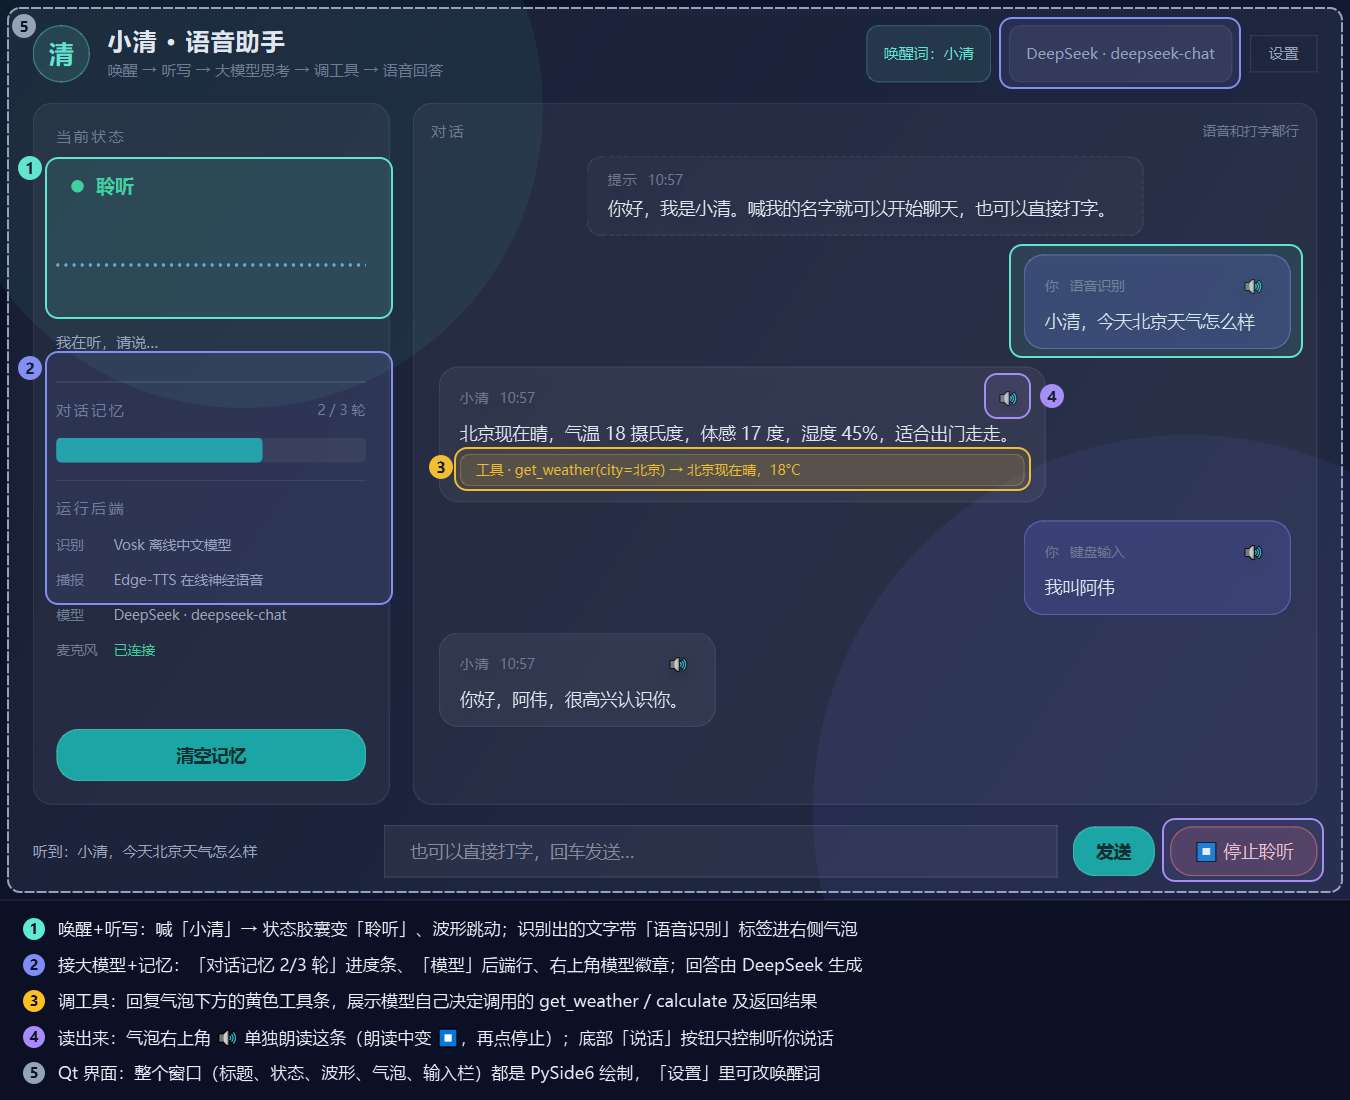
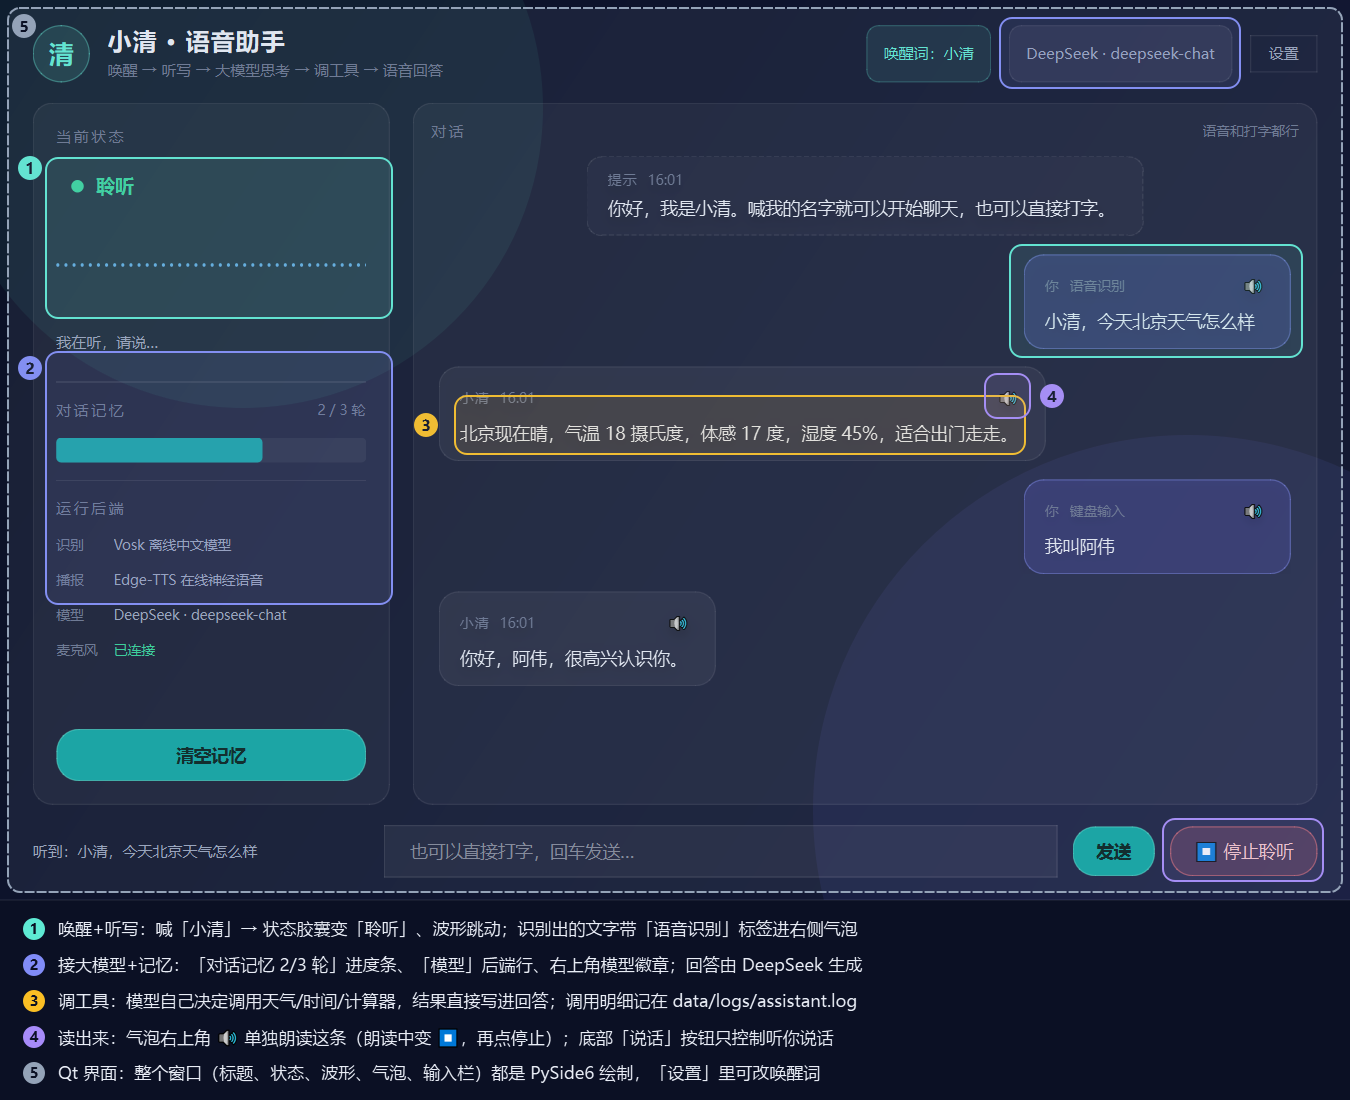
fix: 去掉回复气泡下的黄色工具条
- 气泡只显示回答正文，不再渲染 tool 调用标签
- 工具调用明细保留在 data/logs/assistant.log
- 同步更新界面截图、标注图与文档说明

diff --git a/assistant/ui/widgets.py b/assistant/ui/widgets.py
@@ -148,7 +148,6 @@ class ChatBubble(QFrame):
         self,
         role: str,
         text: str,
-        trace: list[dict] | None = None,
         meta: str = "",
         on_speak: Callable[[ChatBubble], None] | None = None,
         parent=None,
@@ -196,20 +195,6 @@ class ChatBubble(QFrame):
         body.setTextInteractionFlags(Qt.TextSelectableByMouse)
         body.setStyleSheet(f"color: {COLORS['text']}; background: transparent;")
         outer.addWidget(body)
-
-        if trace:
-            for item in trace:
-                chip_text = item.get("summary") or item.get("name", "工具调用")
-                chip = QLabel(f"工具 · {chip_text}")
-                chip.setWordWrap(True)
-                chip.setFixedWidth(body_width)
-                chip.setStyleSheet(
-                    "background-color: rgba(251, 191, 36, 0.10);"
-                    "border: 1px solid rgba(251, 191, 36, 0.28);"
-                    "border-radius: 8px; padding: 5px 9px;"
-                    f"color: {COLORS['warn']}; font-size: 11px;"
-                )
-                outer.addWidget(chip)
 
         if is_system:
             self.setStyleSheet(
@@ -296,8 +281,8 @@ class ChatView(QScrollArea):
         self.setWidget(self._container)
 
     # ---------- 对外 ----------
-    def add_message(self, role: str, text: str, trace: list[dict] | None = None, meta: str = "") -> ChatBubble:
-        bubble = ChatBubble(role, text, trace, meta or time.strftime("%H:%M"), on_speak=self._on_speak)
+    def add_message(self, role: str, text: str, meta: str = "") -> ChatBubble:
+        bubble = ChatBubble(role, text, meta or time.strftime("%H:%M"), on_speak=self._on_speak)
         row = QWidget()
         row.setAttribute(Qt.WA_TranslucentBackground)
         layout = QHBoxLayout(row)

diff --git a/tools/annotate_ui.py b/tools/annotate_ui.py
@@ -36,8 +36,8 @@ ITEMS = [
     (
         "3",
         "#fbbf24",
-        [QRectF(455, 448, 575, 42)],
-        "调工具：回复气泡下方的黄色工具条，展示模型自己决定调用的 get_weather / calculate 及返回结果",
+        [QRectF(455, 396, 570, 58)],
+        "调工具：模型自己决定调用天气/时间/计算器，结果直接写进回答；调用明细记在 data/logs/assistant.log",
     ),
     (
         "4",
@@ -89,7 +89,7 @@ def main() -> int:
         badges = {
             "1": QPointF(30, 168),
             "2": QPointF(30, 368),
-            "3": QPointF(441, 467),
+            "3": QPointF(426, 425),
             "4": QPointF(1052, 396),
             "5": QPointF(24, 26),
         }

diff --git a/assistant/ui/main_window.py b/assistant/ui/main_window.py
@@ -332,8 +332,9 @@ class MainWindow(QMainWindow):
         self._chat.add_message("user", text, meta=meta)
 
     def _on_replied(self, text: str, trace: list) -> None:
+        # 工具调用明细只写日志，不在气泡下面展示，保持对话干净
         self._hide_typing()
-        self._chat.add_message("assistant", text, trace=list(trace or []))
+        self._chat.add_message("assistant", text)
 
     def _on_notice(self, level: str, text: str) -> None:
         color = {

diff --git a/tools/preview_ui.py b/tools/preview_ui.py
@@ -47,7 +47,6 @@ def main() -> int:
     window._chat.add_message(
         "assistant",
         "北京现在晴，气温 18 摄氏度，体感 17 度，湿度 45%，适合出门走走。",
-        trace=[{"name": "get_weather", "summary": "get_weather(city=北京) → 北京现在晴，18°C"}],
     )
     window._chat.add_message("user", "我叫阿伟", meta="键盘输入")
     window._chat.add_message("assistant", "你好，阿伟，很高兴认识你。")

diff --git a/README.md b/README.md
@@ -12,7 +12,7 @@
 
 ![界面预览](docs/images/ui-preview.png)
 
-> 上图是最新界面：左侧状态/波形/后端信息，右侧对话气泡，工具调用会单独标出来。
+> 上图是最新界面：左侧状态/波形/后端信息，右侧对话气泡；工具调用明细写日志，不在气泡里占地方。
 
 ![五件事对应的界面位置](docs/images/ui-guide.png)
 
@@ -96,7 +96,7 @@ C:\Users\12966\AppData\Local\Programs\Python\Python311\python.exe app.py
 
 1. 等左下角提示「准备就绪：喊一声「小清」试试」；
 2. 对着麦克风说：**"小清"** → 它先应一声（"我在呢"/"哎，我在"…随机）→ 状态变「聆听」→ 再说 **"今天北京天气怎么样"**；
-3. 助手进入「思考」，调 `get_weather`，然后「说话」朗读答案，气泡里同时显示文字和工具轨迹；
+3. 助手进入「思考」，调 `get_weather`，然后「说话」朗读答案；回答里直接带出查询结果（调用明细在日志里）；
 4. 也可以一句话说完：**"小清，今天北京天气怎么样"**；
 5. 不想喊名字：点右下角 **「🎤 说话」** 开始听，再点 **「⏹ 停止聆听」** 结束——
    说完会立刻识别；**如果一直没出声，会自动回到「待唤醒」并提示"没听到声音"**，不会卡在聆听；

diff --git a/docs/architecture.md b/docs/architecture.md
@@ -65,7 +65,7 @@ sequenceDiagram
     L-->>G: "北京现在晴，气温18度…"
     G->>G: memory.add(user, assistant)
     G-->>W: TurnResult(text, trace)
-    W-->>UI: replied 信号 → 气泡 + 工具标签
+    W-->>UI: replied 信号 → 气泡（工具结果已并入回答，明细只写日志）
     Note over W: 状态切到「说话」
     W->>S: speak(text)
     S-->>W: 播放完毕
@@ -143,5 +143,5 @@ return llm.complete(messages, tools=None).content
 | 功能全跑通 | 语音/打字两条入口都走同一套 Agent；工具、记忆、朗读、界面全链路 |
 | 代码结构清晰 | core 分层 + 接口抽象 + 工厂降级 + 分层自检脚本 |
 | 本地模型加分 | Vosk 本地识别（离线）、可选 Ollama 本地大模型 |
-| 创新点 | 唤醒词/别名/阈值均可改；一句话唤醒+指令；工具轨迹可视化；三条降级链 |
+| 创新点 | 唤醒词/别名/阈值均可改；一句话唤醒+指令；唤醒应答可配置；工具调用明细入库日志 |
 | 体验自然 | 深色界面、实时波形、状态胶囊、思考占位、朗读防回声、Edge 神经语音 |

diff --git a/docs/demo.md b/docs/demo.md
@@ -34,11 +34,11 @@ run.bat
 
 ## 3. 工具调用（50 秒）
 
-- 说/打：**"帮我算一下 128 乘以 7"** → 气泡下方出现黄色工具标签 `工具 · calculate(...) → 896`
+- 说/打：**"帮我算一下 128 乘以 7"** → 回答里直接给 896（不再在气泡下面堆工具标签；调用明细写在日志里）
 - 说：**"现在几点了"** → `get_current_time`
 - 说：**"今天上海天气怎么样"** → `get_weather`
 
-**要讲的点**：模型自己决定调不调工具（function calling），Agent 拿到 tool_calls 后真正执行，再把结果回填给模型，最多 3 轮防死循环；工具轨迹在界面上可见。
+**要讲的点**：模型自己决定调不调工具（function calling），Agent 拿到 tool_calls 后真正执行，再把结果回填给模型，最多 3 轮防死循环；调用明细在 `data/logs/assistant.log`，可现场打开给评委看。
 
 ## 4. 语音朗读 + 界面（20 秒）
 
